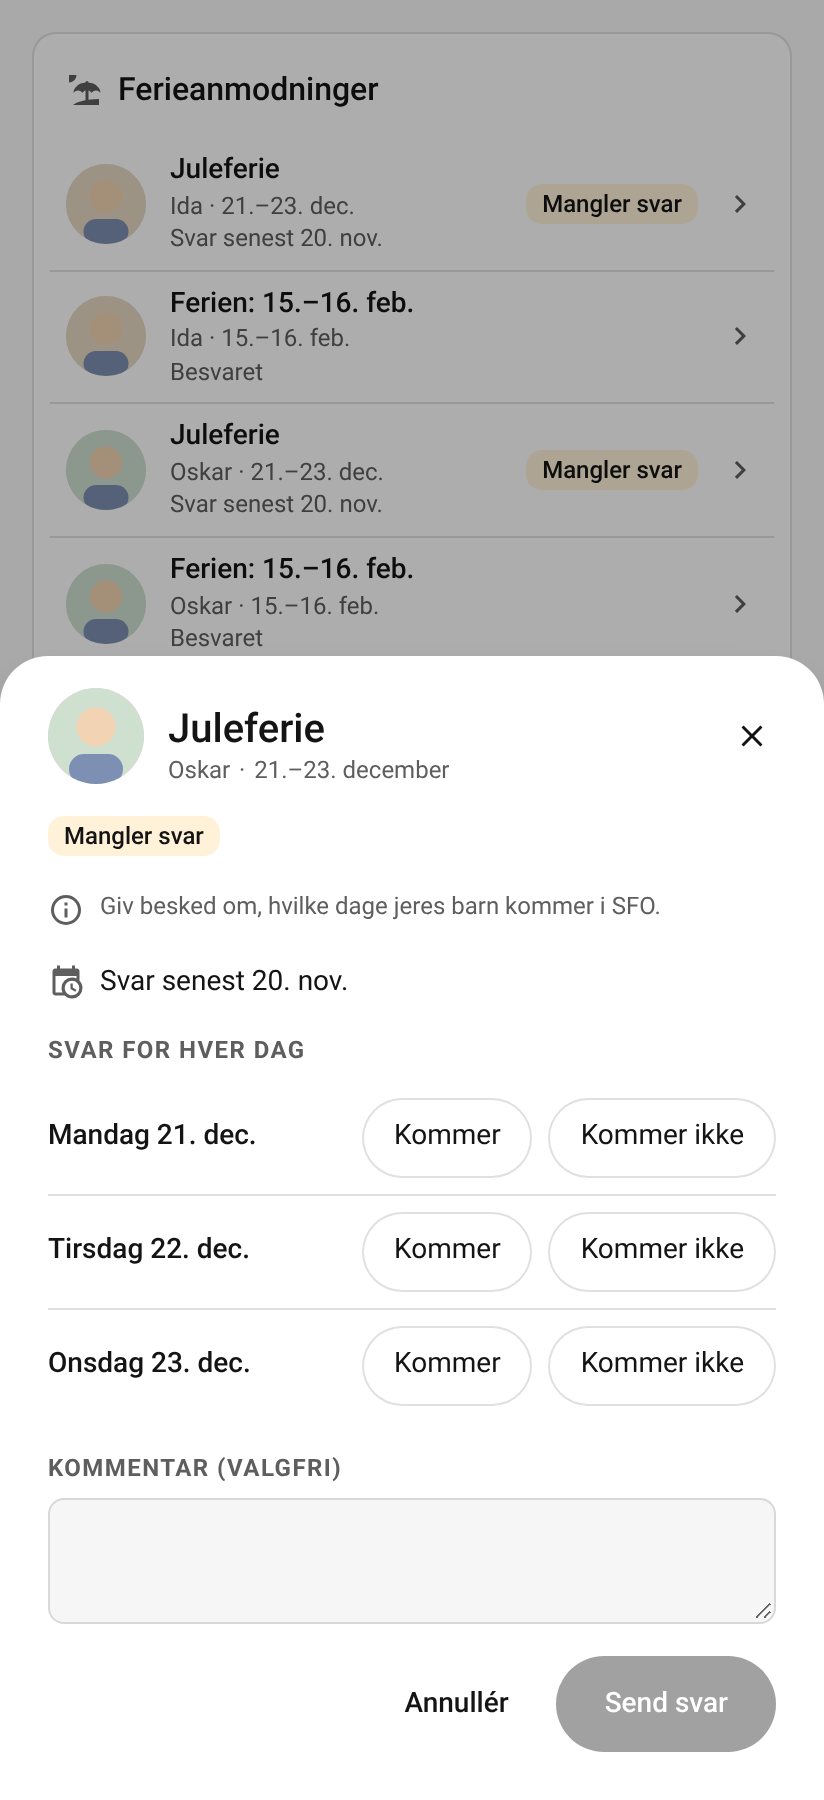
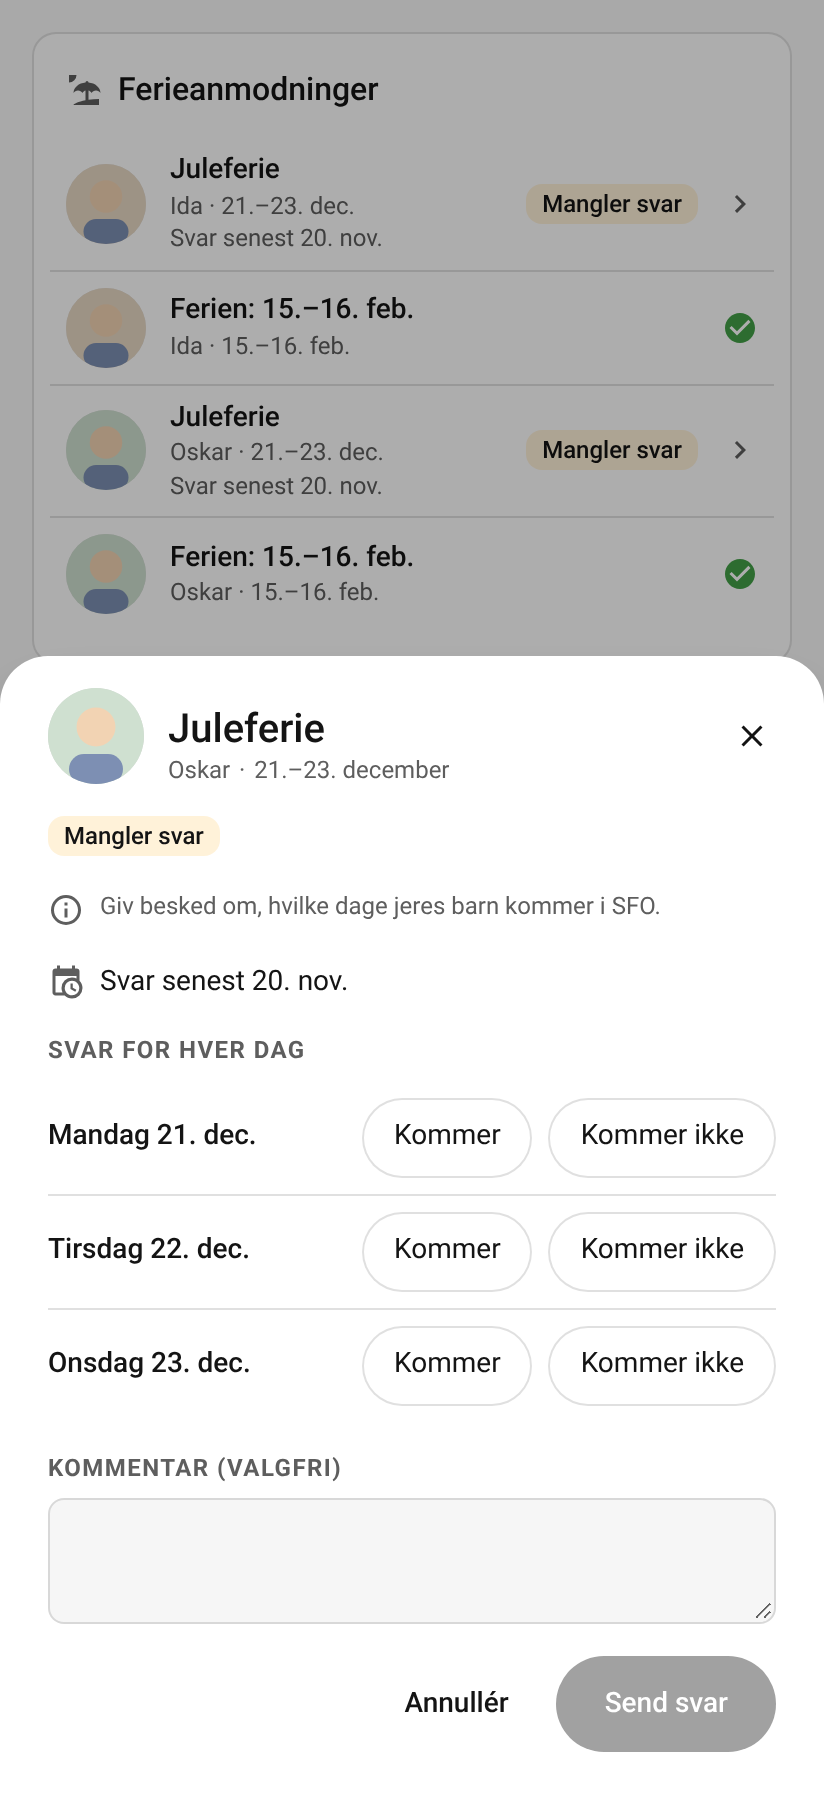
Mark an answered vacation request with a tick in place of its line
An answered request stays on the card until its days have passed, so its row
takes less room: a green tick where the arrow is, named "Besvaret" for a
screen reader, and no line saying it is answered. A tap still opens it.

Claude-Session: https://claude.ai/code/session_01SqQDNZBDdSDZgAEZdkAgqw

diff --git a/src/ui/vacation-requests.ts b/src/ui/vacation-requests.ts
@@ -50,15 +50,12 @@ interface Answer {
 }
 
 /**
- * Shows that a request is answered, or the day to answer it by; nothing for one awaiting an
- * answer without a deadline, as its label says that.
+ * Shows the day to answer a request by; nothing for one answered, as its mark says that, nor for
+ * one awaiting an answer without a deadline, as its label says that.
  */
 export function requestState(request: VacationRequest, ctx: ViewContext): string | undefined {
-  const { t } = ctx;
-  if (!request.missing_answer) return t("answered");
-  return request.deadline === null
-    ? undefined
-    : `${t("answerByTitle")} ${formatShortDate(request.deadline, ctx.language)}`;
+  if (!request.missing_answer || request.deadline === null) return undefined;
+  return `${ctx.t("answerByTitle")} ${formatShortDate(request.deadline, ctx.language)}`;
 }
 
 function requestTitle(request: VacationRequest, ctx: ViewContext): string {
@@ -301,8 +298,16 @@ export function renderVacationRequests(
             >
             ${said === undefined ? nothing : html`<span class="family-sub">${said}</span>`}
           </span>
-          ${request.missing_answer ? label(t("missingAnswer"), "warning") : nothing}
-          ${icon("mdi:chevron-right", "chevron-end")}
+          ${
+            request.missing_answer
+              ? html`${label(t("missingAnswer"), "warning")}${icon("mdi:chevron-right", "chevron-end")}`
+              : html`<ha-icon
+                  class="chevron-end answered-mark"
+                  icon="mdi:check-circle"
+                  role="img"
+                  aria-label=${t("answered")}
+                ></ha-icon>`
+          }
         </button>
       </li>`;
     });

diff --git a/tests/ui/vacation-cards.test.ts b/tests/ui/vacation-cards.test.ts
@@ -83,9 +83,16 @@ describe("the vacation requests card", () => {
       "Oskar · 21.–23. dec.",
       "Svar senest 20. nov.",
       "Oskar · 15.–16. feb.",
-      "Besvaret",
     ]);
     expect(texts(shown, ".family-row .label.warning")).toEqual(["Mangler svar"]);
+    const ends = all(shown, ".family-row > ha-icon").map((mark) => [
+      mark.getAttribute("icon"),
+      mark.getAttribute("aria-label"),
+    ]);
+    expect(ends).toEqual([
+      ["mdi:chevron-right", null],
+      ["mdi:check-circle", "Besvaret"],
+    ]);
   });
 
   it("says when there is no request, or why the requests cannot be had", async () => {
@@ -255,11 +262,12 @@ describe("a request's state", () => {
     ]);
   });
 
-  it("says it awaits an answer, by its deadline where it has one", () => {
+  it("says by when to answer, where it has a deadline and no answer yet", () => {
     const ctx = contextOf(scenarioNamed("thu-1000"));
     const request = present(REQUESTS.requests[0]) as VacationRequest;
     expect(requestState({ ...request, deadline: null }, ctx)).toBeUndefined();
     expect(requestState(request, ctx)).toBe("Svar senest 20. nov.");
+    expect(requestState({ ...request, missing_answer: false }, ctx)).toBeUndefined();
   });
 });
 

diff --git a/src/ui/styles.ts b/src/ui/styles.ts
@@ -2267,6 +2267,9 @@ export const family = css`
   .chevron-end {
     margin-inline-start: auto;
   }
+  .answered-mark {
+    color: var(--success-color, #43a047);
+  }
   .family-card > .window-actions {
     justify-content: flex-start;
   }
